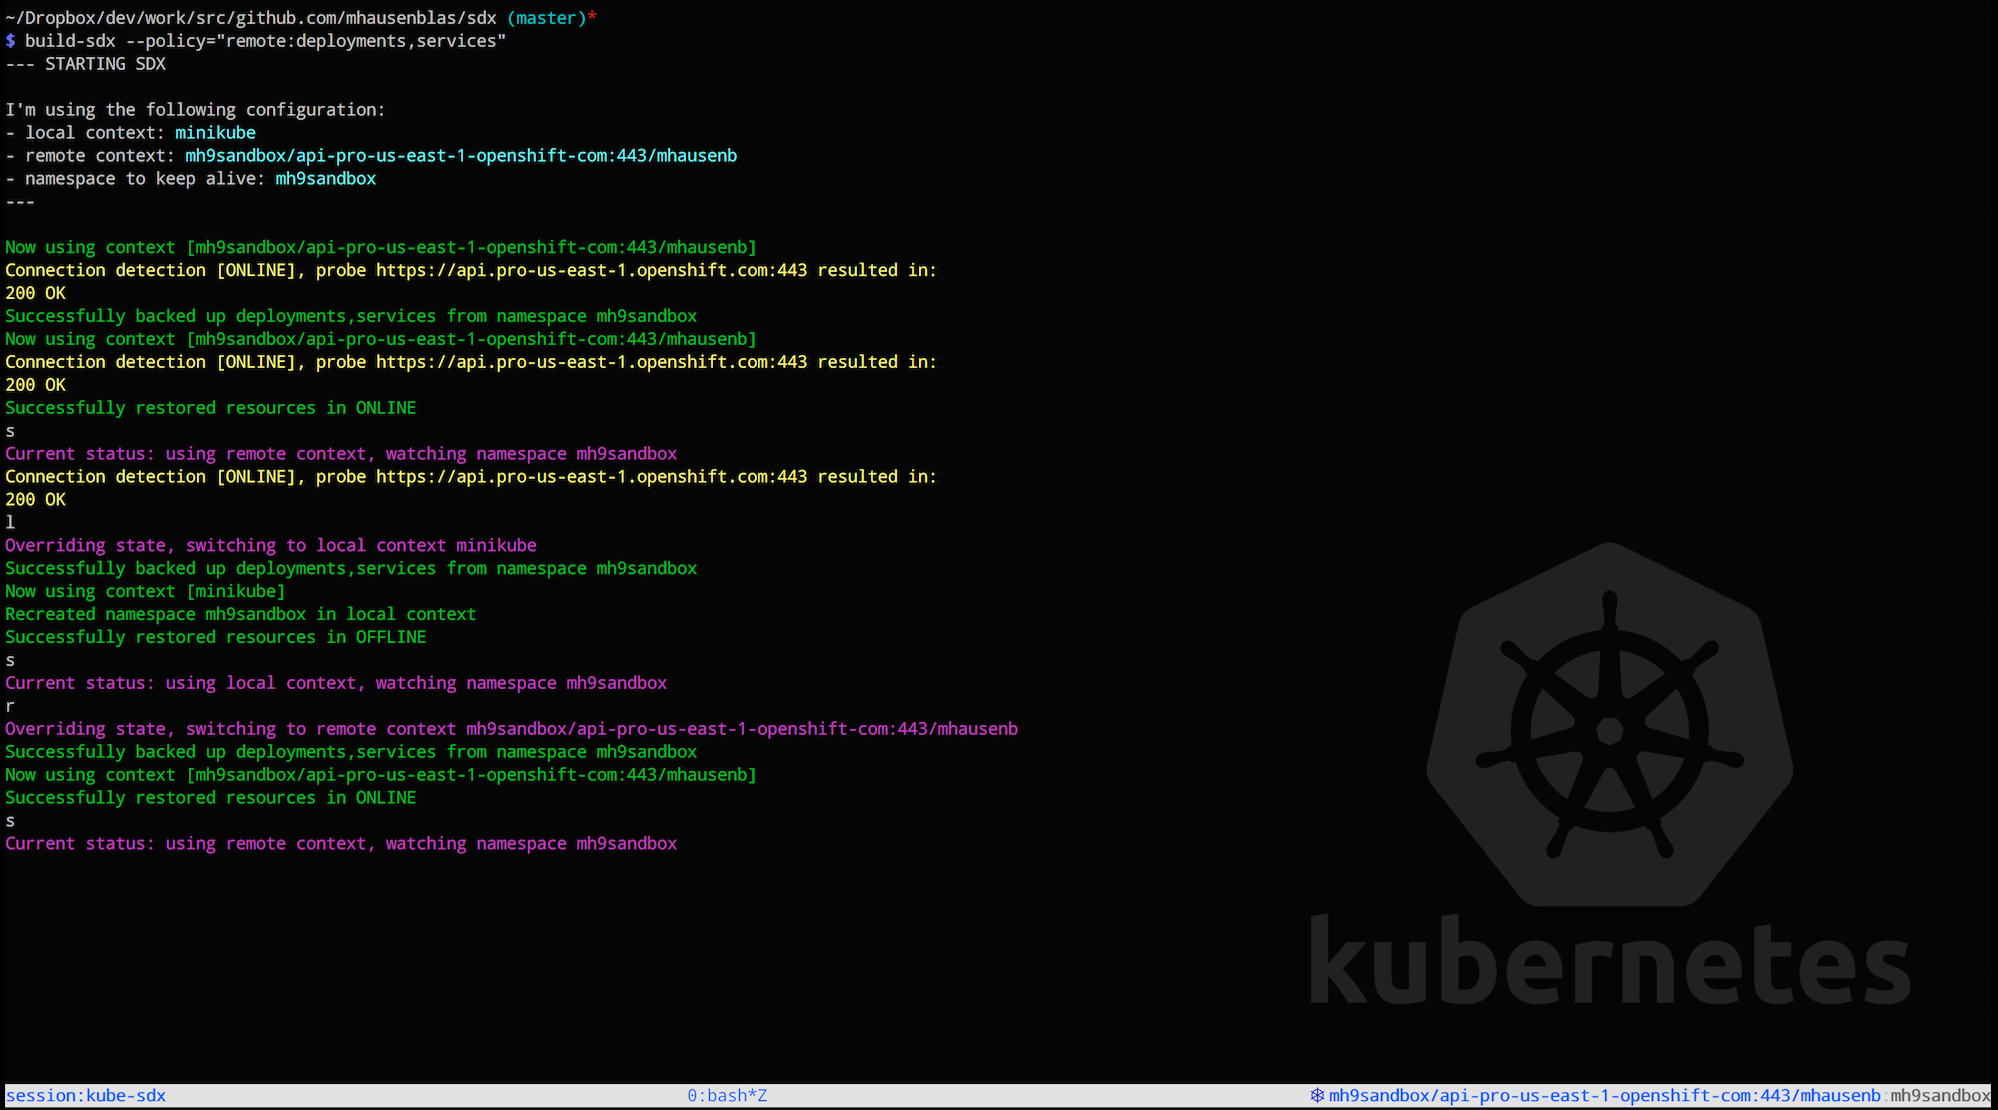
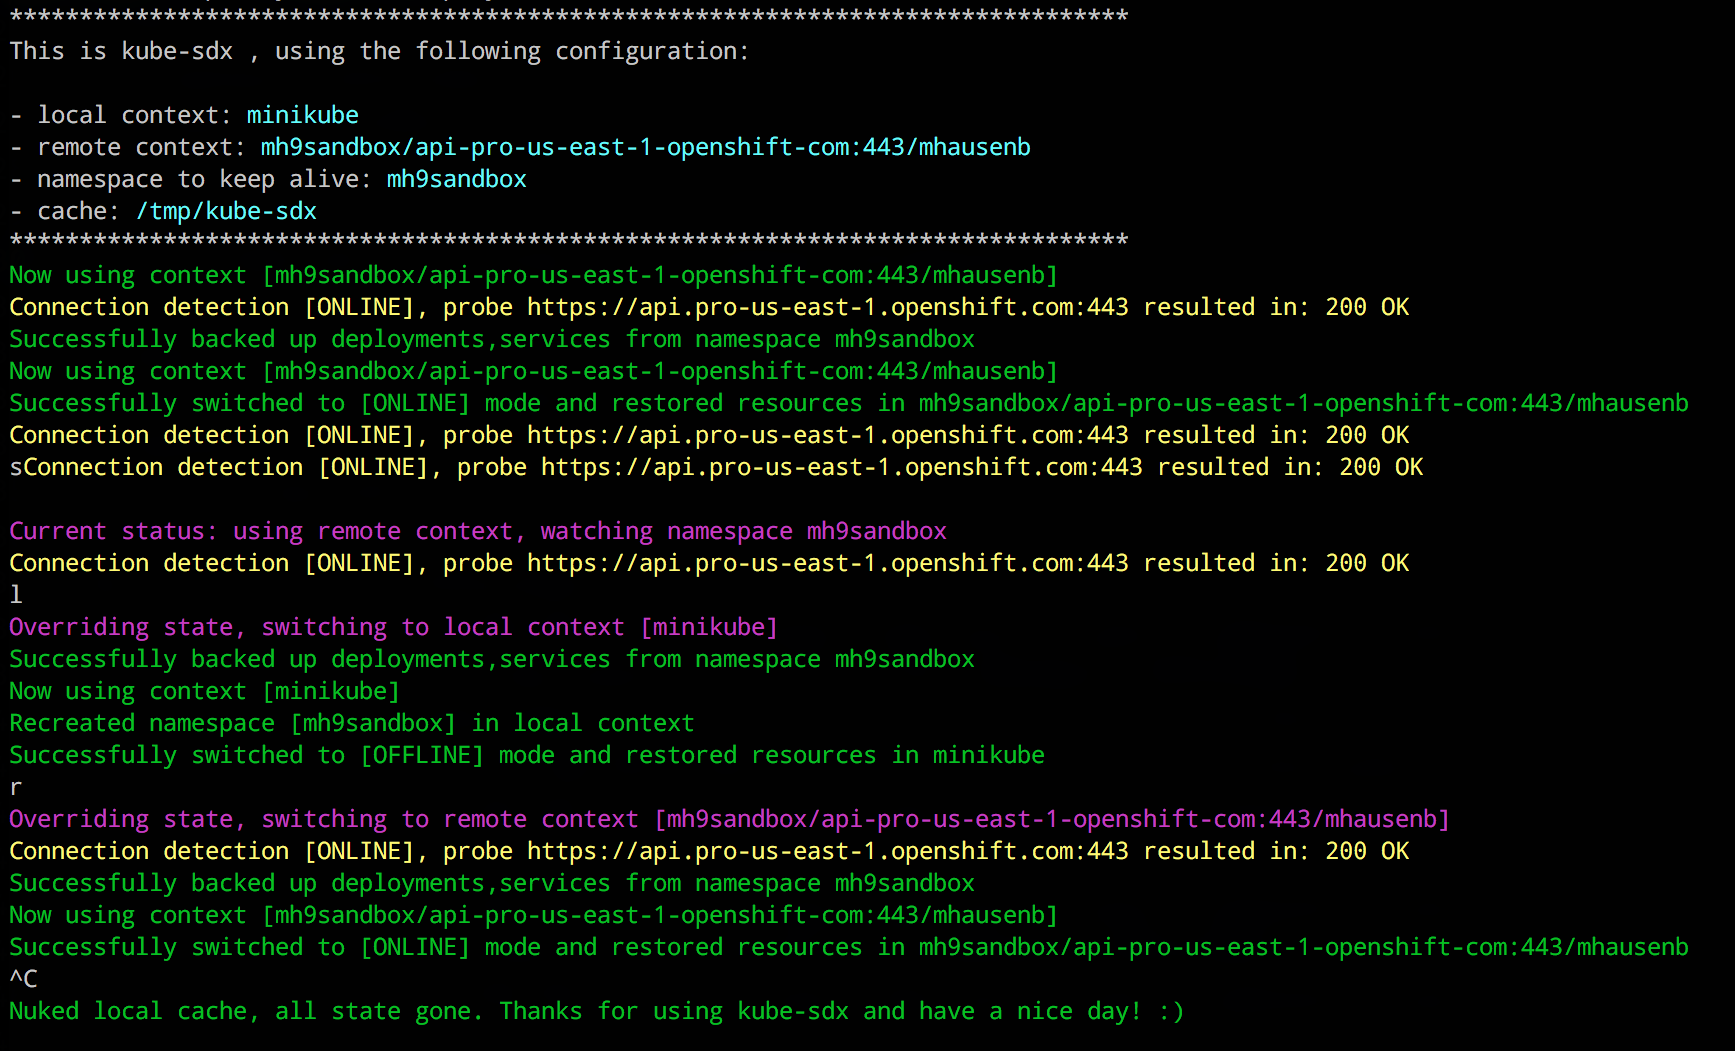
updates screen shot and move to walkthrough

Changed region(s): [[0.0, 0.4872, 1.0, 1.0], [0.0, 0.0913, 0.9648, 0.4567], [0.0, 0.0, 0.6536, 0.0609]]

diff --git a/README.md b/README.md
@@ -2,7 +2,7 @@
 
 This is a prototype of a command line tool called `kube-sdx`, enabling you to automatically switch between different Kubernetes clusters and continue your work uninterrupted. The `sdx` stands for seamless Developer Experience (DX) for short and the goal is to help support you in your developing on Kubernetes workflow.
 
-![screen shot of kube-sdx](img/kube-sdx-screen-shot.png)
+
 
 - [Prerequisits](#prerequisits)
 - [Install](#install)

diff --git a/walkthrough.md b/walkthrough.md
@@ -62,6 +62,10 @@ Nuked local cache, all state gone. Thanks for using kube-sdx and have a nice day
 $
 ```
 
+And here in color:
+
+![screen shot of kube-sdx](img/kube-sdx-screen-shot.png)
+
 Note that following:
 
 - Messages in yellow are from the connection detection module
